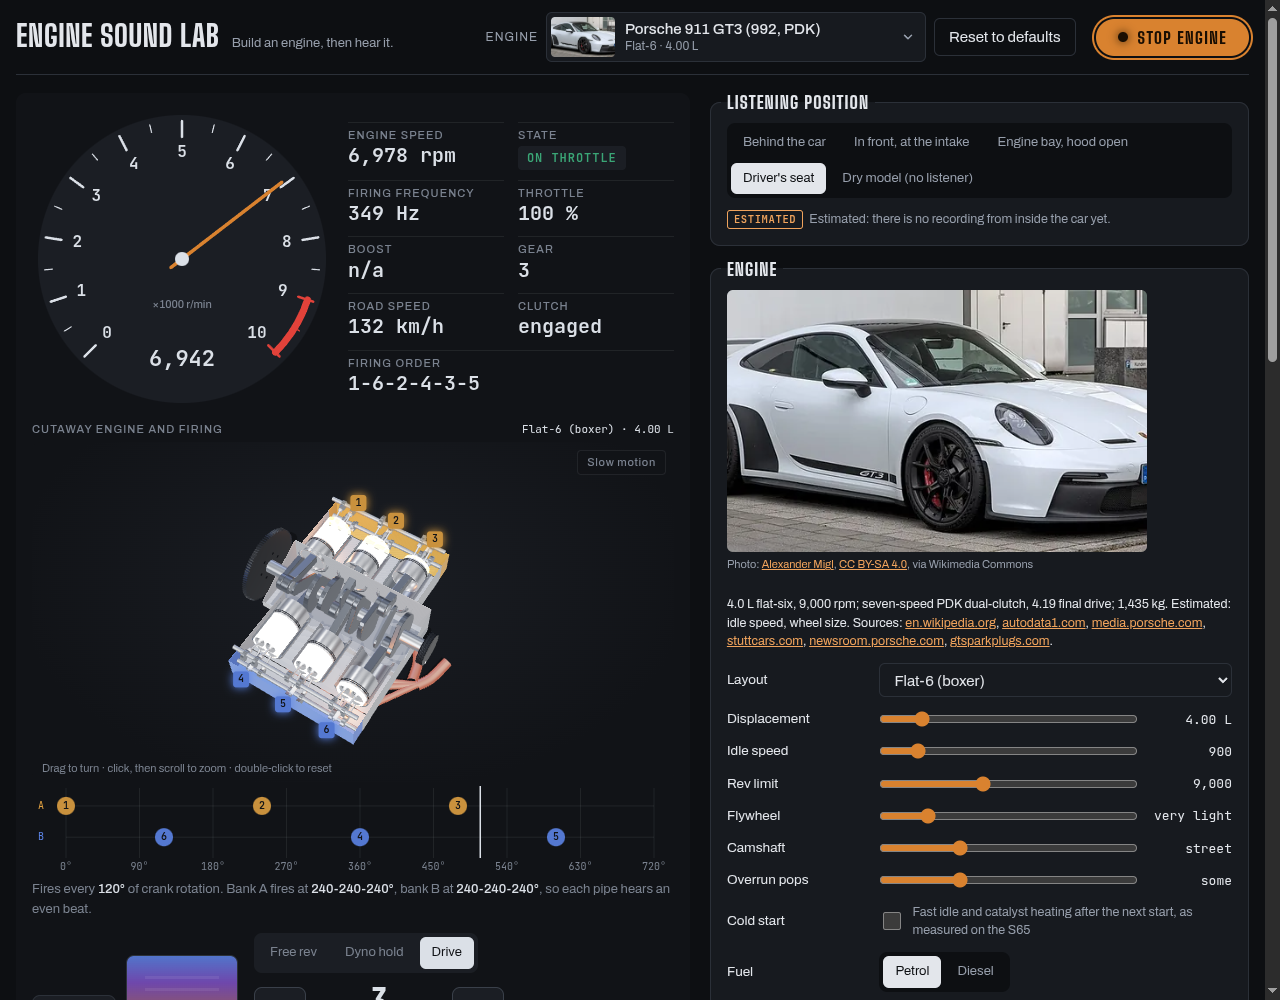
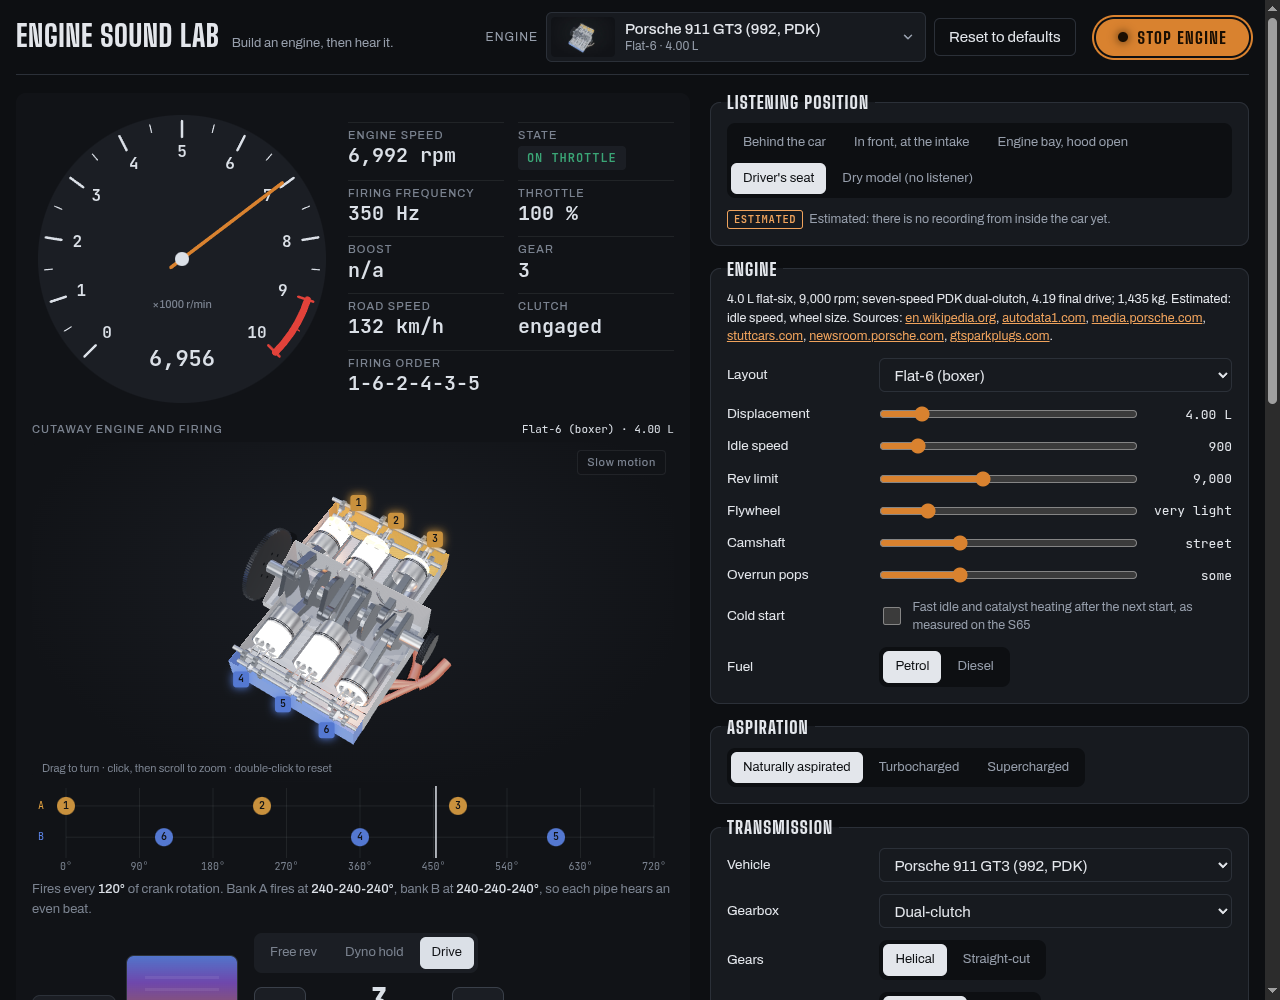
Sync from the development mono repo (8fd308fbe)
A squashed sync of the upstream changes since the last publish. This commit
builds on the existing published history rather than replacing it, so forks
and open pull requests stay mergeable.

diff --git a/README.md b/README.md
@@ -65,8 +65,16 @@ picker that shows each one as a 3D rendering. It runs live at
 
 <p align="center"><em>Left: the T-6 Texan's Pratt &amp; Whitney R-1340 radial, firing 1-3-5-7-9-2-4-6-8. Right: a phone-sized screen.</em></p>
 
+<p align="center">
+  <img src="docs/screenshots/picker.png" width="100%" alt="The preset picker on its Race cars tab: fifteen cards, each with a 3D render of the preset's engine, its name and its layout, displacement and aspiration, with category tabs and a search box above">
+</p>
+
+<p align="center"><em>The preset picker, on the race cars: 90 presets in six categories plus generic engines, searchable by name, layout or fuel.</em></p>
+
 These were captured in Chromium with the engine running (`scripts/capture-screenshots.mjs`;
 the 3D engine needs a browser with a GPU, and `scripts/preview-3d.mjs` shoots a single preset).
+They show the cards as this repository has them, each with a render of its own engine; the
+live site also shows Gran Turismo 7 renders of the cars GT7 has.
 
 ## Features
 
@@ -159,11 +167,13 @@ holds its launch speed until you release the brake.
 
 ### Presets and listening positions
 
-Pick a preset from the **Engine** menu, grouped as road cars, race cars, motorcycles,
-aircraft, machines and generic engines. A real preset shows its specification and sources
-under the engine settings, and names every value that had to be estimated. Every setting can
-then be changed; the preset becomes a custom build. **Reset to defaults**, beside the menu, puts
-every setting, the mixer, the mode and the steady throttle back to how the page first loads.
+Press the **Engine** button to open the preset picker: a card per preset, with tabs for road
+cars, race cars, motorcycles, aircraft, trucks and machines and generic engines, and a search
+box that matches names, layouts and fuels (try "V12", "diesel" or "radial"). A real preset
+shows its specification and sources under the engine settings, and names every value that
+had to be estimated. Every setting can then be changed; the preset becomes a custom build.
+**Reset to defaults**, beside the picker, puts every setting, the mixer, the mode and the
+steady throttle back to how the page first loads.
 
 **Mix** sets the level of each part of the sound on its own: exhaust, intake, mechanical noise,
 turbo or blower, the pops and crackles on overrun and ignition-cut shifts, gearbox, and road and
@@ -197,8 +207,10 @@ npx wrangler@4 deploy
 
 ## Architecture
 
-`index.html` and `app.js` are the page and its instruments; `engine-worklet.js` runs the
-synthesizer in an AudioWorklet. The synthesizer (`engine-dsp.js`), the drivetrain
+`index.html` and `app.js` are the page, its instruments and the preset picker; `engine-3d.js`
+draws the 3D cutaway engine with three.js (vendored in `lib/three/`), and `img/presets/` holds
+each preset's picture, a render of that engine; `engine-worklet.js` runs the synthesizer in an
+AudioWorklet. The synthesizer (`engine-dsp.js`), the drivetrain
 (`drivetrain.js`) and the shared filters (`dsp-util.js`) are plain JavaScript, so they also
 render offline and run under Node in the tests. All engine, vehicle and preset data is in
 `engine-data.json`; the real-vehicle presets are generated from the sourced research in

diff --git a/ARCHITECTURE.md b/ARCHITECTURE.md
@@ -226,7 +226,7 @@ python3 scripts/analyze-recording.py out.json --cylinders 8 --rpm 650:950 \
 |------|------|
 | `index.html` | The page (styles inline). |
 | `app.js` | Controls, the preset picker, audio graph, tachometer, firing timeline, spectrum; drives the 3D engine and its slow motion. |
-| `img/presets/` | One picture per preset (`<id>.webp`) and `credits.json`, the photos' authors, licences and sources. |
+| `img/presets/` | One picture per preset (`<id>.webp`, 480 x 300): a render of its own 3D engine. |
 | `engine-3d.js` | The 3D cutaway engine (three.js): builds the crank, cylinders, valvetrain and castings from a layout's firing angles and bank angles, and poses them from the crank angle. Loaded after the page, so the sound works without WebGL. |
 | `lib/three/` | three.js r170 and two of its add-ons, vendored (MIT). |
 | `engine-dsp.js` | The DSP and engine physics. Plain JS, no Web Audio, so it also runs under Node. |
@@ -237,6 +237,9 @@ python3 scripts/analyze-recording.py out.json --cylinders 8 --rpm 650:950 \
 | `render.js` | Offline render of a scripted run plus a WAV encoder (the page's **Render WAV**, and the tests). |
 | `engine-data.json` | Layouts with firing angles, mufflers, intakes, superchargers, gearing, scripted runs, presets, listening positions, cold-start data. Real-vehicle presets are generated. |
 | `research/` | Sourced specifications of the real vehicles, and the modelling file the generator reads. |
+| `scripts/render-engine-thumbs.mjs`, `scripts/convert-renders.py` | Draw every preset's picture from the 3D engine in a GPU browser over CDP, then size it to 480 x 300 WebP. |
+| `scripts/preview-3d.mjs`, `scripts/disk-origin.mjs` | Screenshot one preset (the 3D panel, or the picker) in a remote GPU browser, loading the working copy straight from disk with no server. |
+| `scripts/preset-image-sheet.py` | Tiles every preset picture into one labelled sheet for review. |
 
 
 ## Tests
@@ -251,6 +254,10 @@ node tests/dsp-check.mjs tests/out   # the DSP checks, also writing idle / blips
 python3 -m http.server 8000
 node tests/smoke.mjs http://localhost:8000/ tests/out
 node scripts/capture-screenshots.mjs http://localhost:8000/ docs/screenshots
+# With a remote GPU browser that cannot reach a local server, pass "disk" as the URL: the
+# working copy is served to it from disk (scripts/disk-origin.mjs). The smoke test also drives
+# the preset picker (open, search, a category tab, a card).
+CDP_URL=http://host:9223 node tests/smoke.mjs disk tests/out
 ```
 
 `dsp-check` fails on non-finite samples, an idle louder than full throttle, a pull that
